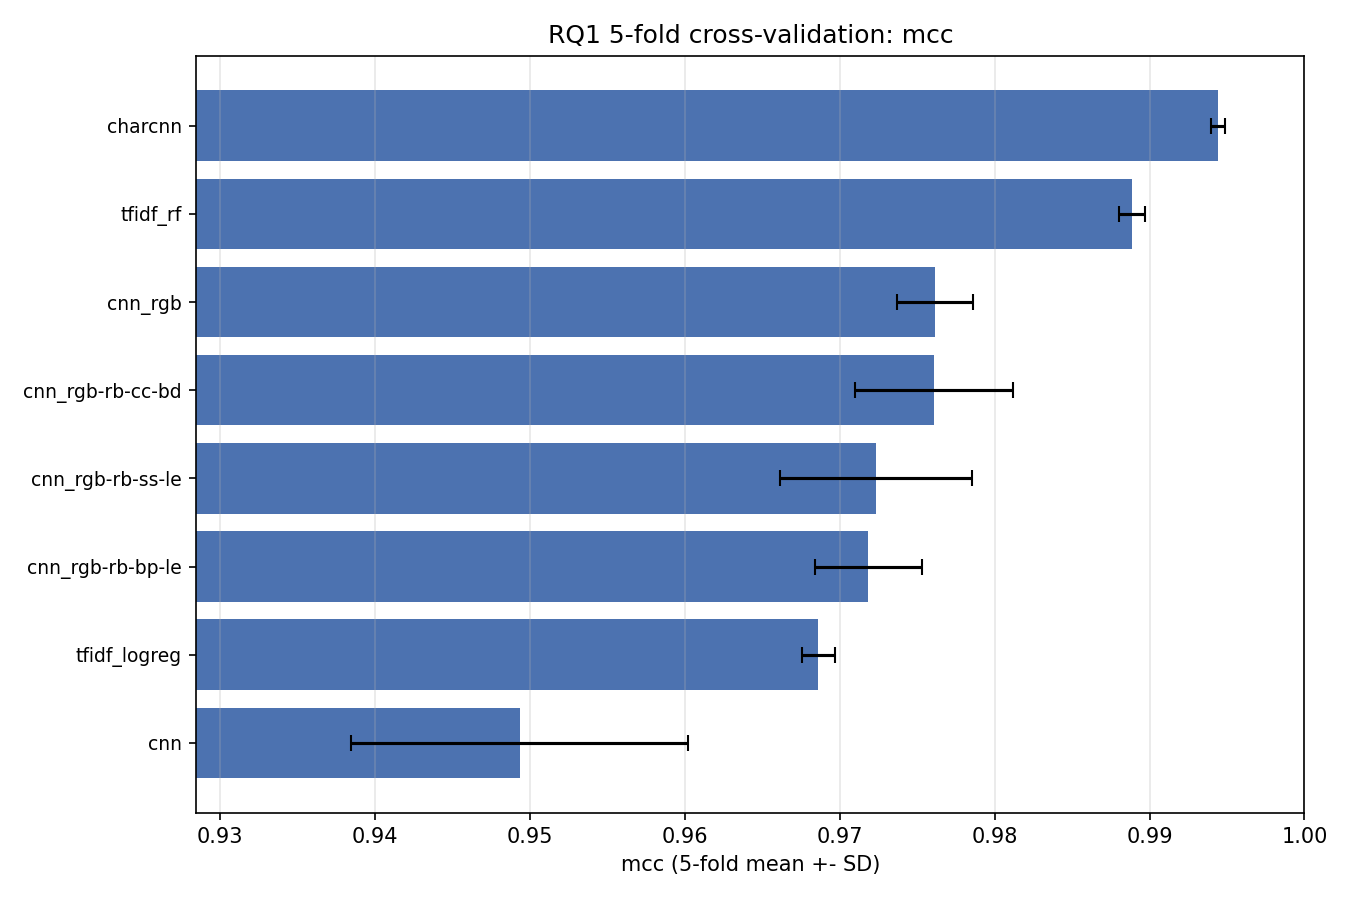
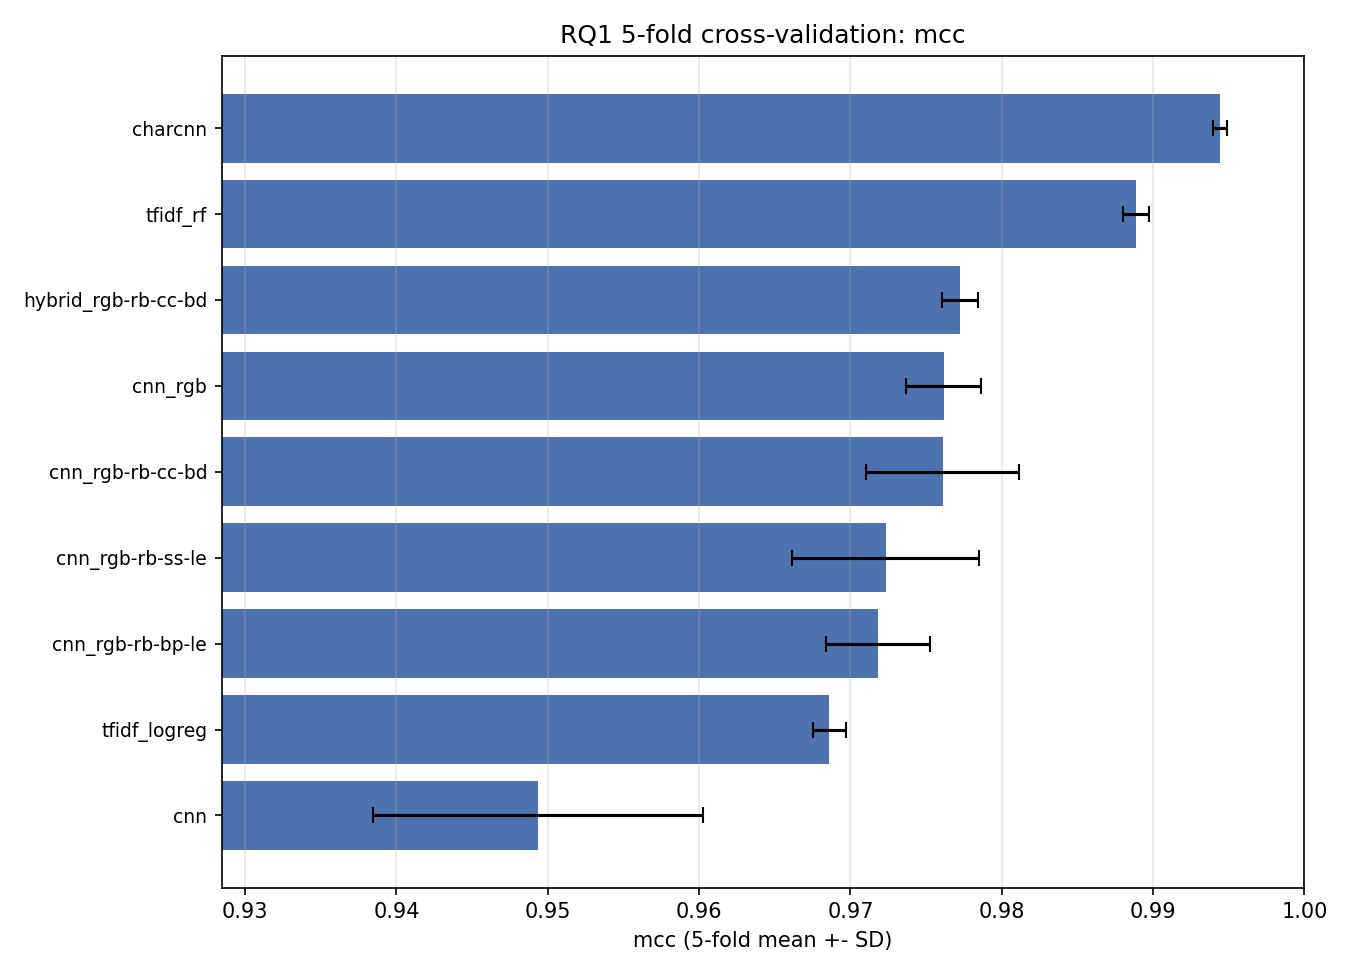
feat(Phase 9): ViT arm 실측 완료 — hybrid vs CNN 유의차 없음(CNN 유지), lr 미조정 함정 규명
■ 실측 (총 12런 + 5-fold CV 1종, RTX 4080 SUPER 약 2시간)
- 1순위 CNN↔ViT 교체 비교 4종(vit/hybrid × gray/rgb)
- 2순위 패치 기하 3종 × lr 스윕(1e-3 / 3e-4 / 1e-4)
- hybrid rgb 5-fold CV (cnn rgb CV 는 기존 산출물 재사용, 라벨지문 일치 확인)

■ 핵심 결론
1) hybrid vs 제안 CNN: paired t-test 평균차 +0.12pp, p(adj)=1.0000 → 유의차 없음.
   단일 split 의 +0.27pp 는 노이즈였다. 동률에 파라미터 6.1배·처리량 1/3.5 를 지불할
   이유가 없으므로 제안 CNN 유지. 교수 요구 (b) 관점에서 "시도했으나 채택 안 함"이 결론.
2) 기본 lr=1e-3 은 CNN 기준값이라 단일 ViT 가 발산한다. lr 만 낮추자 MCC 가 최대 +23.9pp
   이동(1x48: 0.6768→0.9158). "같은 학습 루프 = 공정"은 성립하지 않는다.
   → lr 미조정 상태로 측정한 패치 기하 결과 3종은 무효(음성 대조군이 1위로 나왔었음).
3) 패치 기하: 토큰 수를 통제한 1x48 vs 48x1 에서 +1.5~1.8pp(두 lr 일관) → §3 가설 지지 방향.
   단 단일 split 이라 CV 전까지 주장 금지. §3 세부 예측 "V-col 이 최악"은 빗나감(8x8 과 동률).
4) gray→RGB 상승폭이 귀납편향과 반비례(vit +13.4pp / hybrid +2.0pp / cnn +1.7pp).
   RGB 채널 인프라는 구현 편의를 넘어 ViT arm 의 핵심 변수였다.
5) §6-2 처리량 우려는 과대평가 — 실측 2.2배 저하에 그쳤고 charcnn 대비 13.6배 우위 유지.

■ 코드 수정
- train.py / cross_validate.py: 산출물 tag 에 `_lr` 접미사 추가(두 곳 동시 갱신).
  lr 이 tag 에 없어 스윕 6런이 서로 덮어쓸 뻔했다(커밋 5eede2f 사고와 동형).
  기본값 1e-3 이면 접미사 생략 → 기존 산출물 15종과 파일명 호환 유지.
- DEFAULT_LR 상수 승격: 두 파일이 같은 기준으로 "기본값 여부"를 판정해야 규칙이 어긋나지 않음.

■ 철회/정정
- "수렴 속도(best epoch)가 바이트 연속성 서열과 일치한다"는 관찰은 lr=1e-4 에서 재현되지
  않아 폐기(3e-4: 12<23<30, 1e-4: 16<20<25 로 8x8·48x1 역전).

■ 실행 메모
- 백그라운드 작업이 "killed" 로 보고돼도 파이썬 자식 프로세스는 생존할 수 있다. 이를 오판해
  2차 CV 를 띄워 GPU 동시 실행이 발생(순차 실행 규칙 위반). fold 5 의 epoch 시간이 22s→41.5s 로
  느려진 흔적이 남아 있으나 시드 고정이라 결과값은 유효. 재실행 전 프로세스 생존 확인 필요.

diff --git a/src/models/train.py b/src/models/train.py
@@ -51,6 +51,10 @@ CKPT_DIR = PROJECT_ROOT / "experiments" / "checkpoints"
 # 이미지를 쓰는 모델과 바이트 시퀀스를 쓰는 모델을 구분한다.
 # vit/hybrid 는 제안 CNN 과 **완전히 같은 이미지 입력**을 받는 비교 arm 이다(vit.py 참조).
 IMAGE_MODELS = {"cnn", "vit", "hybrid"}
+
+# 기본 학습률. 산출물 tag 에서 "기본값이면 접미사 생략" 판정에 쓰므로 상수로 둔다
+# (cross_validate.py 와 동일한 값이어야 파일명 규칙이 어긋나지 않는다).
+DEFAULT_LR = 1e-3
 TEXT_MODELS = {"charcnn", "bilstm"}
 
 
@@ -256,7 +260,7 @@ def main() -> None:
                         help="바이트 시퀀스 길이(텍스트 모델 전용). 기본=이미지 용량(48x48)과 동일")
     parser.add_argument("--epochs", type=int, default=30)
     parser.add_argument("--batch-size", type=int, default=128)
-    parser.add_argument("--lr", type=float, default=1e-3)
+    parser.add_argument("--lr", type=float, default=DEFAULT_LR)
     parser.add_argument("--patience", type=int, default=5, help="조기 종료 인내 에폭")
     parser.add_argument("--seed", type=int, default=42)
     parser.add_argument("--limit", type=int, default=None, help="학습 샘플 수 제한(스모크용)")
@@ -329,7 +333,10 @@ def main() -> None:
         # ⚠ vit 은 패치 기하가 바뀌면 완전히 다른 실험이다. tag 에 안 넣으면 8x8 결과를
         #    1x48 결과가 덮어쓴다(RGB ablation 에서 실제로 겪은 사고 — 커밋 5eede2f).
         patch_tag = f"_p{args.patch}" if args.model == "vit" else ""
-        tag = (f"{args.track}_{args.model}_{args.text}{ch_tag}{patch_tag}"
+        # ⚠ lr 도 실험을 가르는 하이퍼파라미터다(ViT 는 CNN 용 기본 lr=1e-3 에서 발산 —
+        #    docs/08 §9). 기본값일 때는 접미사를 생략해 기존 산출물과 파일명 호환을 유지한다.
+        lr_tag = "" if args.lr == DEFAULT_LR else f"_lr{args.lr:g}"
+        tag = (f"{args.track}_{args.model}_{args.text}{ch_tag}{patch_tag}{lr_tag}"
                + ("_bal" if args.balance else ""))
         M.save_report(result, RESULTS_DIR / f"{tag}.json")
         # 샘플 단위 예측 저장(모델 간 '탐지 불일치' 분석용 — detection_analysis.py 가 소비)

diff --git a/src/eval/cross_validate.py b/src/eval/cross_validate.py
@@ -360,7 +360,9 @@ def main() -> None:
         ch_tag = data_image._channel_suffix(args.channels, encoders)
     # train.py 와 동일한 태그 규칙(패치 기하가 다르면 다른 실험 → 파일이 겹치면 안 됨).
     patch_tag = f"_p{args.patch}" if args.model == "vit" else ""
-    tag = f"{args.track}_{args.model}_{args.text}{ch_tag}{patch_tag}"
+    # lr 접미사도 train.py 와 동일 규칙(기본값이면 생략) — ViT 는 lr 이 결과를 크게 가른다.
+    lr_tag = "" if args.lr == T.DEFAULT_LR else f"_lr{args.lr:g}"
+    tag = f"{args.track}_{args.model}_{args.text}{ch_tag}{patch_tag}{lr_tag}"
 
     payload = {
         "model": args.model,

diff --git a/docs/08_vit_design.md b/docs/08_vit_design.md
@@ -174,7 +174,109 @@ python src/eval/cross_validate.py --model hybrid --channels rgb --rgb-encoders r
 - [x] A(단일 ViT)·B(하이브리드) 구현 — `src/models/vit.py`, train.py `IMAGE_MODELS` 에 등록.
       gray/RGB, 패치 8x8·1x48, 잘못된 패치 에러처리까지 스모크 검증 완료(2026-07-18).
 - [x] C(사전학습 전이) 제외 확정 — 처리량 우위 상실이 이유(§6-2).
-- [ ] **학습 실측 미실시** — RQ1 5-fold CV(9설정)가 GPU 를 점유 중이라 대기. CV 종료 후 착수.
+- [x] **학습 실측 완료(2026-07-19)** — §9 참조. 단일 split 12런 + hybrid RGB 5-fold CV.
 - [ ] RQ3 대비 우선순위 확정 (권고: RQ3 우선, ViT 실측은 그다음)
 - [ ] 하이브리드의 CNN stem 깊이(2블록 vs 3블록) — 12×12 vs 6×6 토큰맵
 - [ ] attention rollout 을 논문 본문에 넣을지 부록으로 뺄지
+- [ ] **§3 패치 기하 CV 미실시** — 단일 split 근거만 있음(§9.3). 논문 주장 전 CV 필요.
+
+---
+
+## 9. 실측 결과 (2026-07-19)
+
+환경: RTX 4080 SUPER, seed=42, epochs=30, batch=128, 조기종료 patience=5.
+RGB 조합은 `raw_byte,char_class,byte_delta`(`_rgb-rb-cc-bd`) 고정 — §7 지정값.
+CV 결과의 상위 조합 2종(`_rgb` 0.9762 / `_rgb-rb-cc-bd` 0.9761)이 std 보다 작은 차이로 동률이라
+성능으로 고를 수 없었고, 문서·산출물 일관성을 위해 §7 지정값을 따랐다.
+
+### 9.1 ⚠ 학습률 — 이 arm 에서 가장 중요한 발견
+
+`train.py` 의 기본 `lr=1e-3` 은 **CNN 에 맞춰 검증된 값**이고, 단일 ViT 는 이 값에서 **발산한다.**
+동일 설정에서 lr 만 바꾼 실측(gray, 단일 split):
+
+| patch | lr=1e-3 | lr=3e-4 | lr=1e-4 |
+|---|---|---|---|
+| 1x48 | 0.6768 (ep10) | **0.9158** (ep12) | **0.9179** (ep16) |
+| 8x8 | 0.7705 (ep14) | 0.8984 (ep23) | 0.9035 (ep25) |
+| 48x1 | 0.7985 (ep 4) | 0.8976 (ep30, 미수렴) | 0.9026 (ep20) |
+
+- lr=1e-3 열은 **전부 무효**다. val Macro-F1 이 에폭 간 0.18 폭락하는 등 수렴하지 않았다.
+  (예: 1x48 은 lr 만 낮추자 MCC 가 **+23.9pp** 움직였다.)
+- **"같은 학습 루프를 썼으니 공정하다"는 논리는 한쪽으로만 기운다** — 기본 lr 이 CNN 기준이므로
+  최적값이 다른 아키텍처가 자동으로 불리해진다. ViT 비교는 **반드시 lr 을 맞춰서** 해야 한다.
+- 산출물 tag 에 lr 이 없어 스윕 결과가 서로 덮어쓸 뻔했다 → `train.py`/`cross_validate.py`
+  **두 곳**에 `_lr` 접미사 추가(기본값이면 생략해 기존 파일명과 호환). 커밋 5eede2f 사고와 동형.
+
+### 9.2 1순위 — CNN ↔ ViT 교체 비교 (단일 split, lr=1e-3)
+
+| 설정 | MCC | PR-AUC | 파라미터 | 처리량 |
+|---|---|---|---|---|
+| charcnn (텍스트 베이스라인) | 0.9957 | 0.9995 | 141,252 | 6,010/s |
+| hybrid rgb | 0.9802 | 0.9970 | 576,932 | 23,504/s |
+| **cnn rgb (제안)** | 0.9775 | 0.9963 | **93,988** | **81,964/s** |
+| cnn gray | 0.9609 | 0.9914 | 93,412 | 92,466/s |
+| hybrid gray | 0.9599 | 0.9915 | 576,356 | 25,203/s |
+| vit rgb 8x8 | 0.9041 | 0.9692 | 2,714,692 | 39,492/s |
+| vit gray 8x8 | 0.7705 | 0.8928 | 2,690,116 | 42,443/s |
+
+⚠ `vit` 행은 §9.1 에 따라 **과소평가**다(lr 미조정). gray 는 lr 조정 시 0.90 까지 올라간다.
+`hybrid`/`cnn` 은 lr=1e-3 에서 안정 수렴했으므로 그대로 유효하다.
+
+**gray→RGB 상승폭이 귀납편향과 반비례한다**: vit +13.4pp / hybrid +2.0pp / cnn +1.7pp.
+`char_class`·`byte_delta` 는 CNN 이 conv 로 이미 얻는 정보라 한계효용이 작고,
+지역성 편향이 없는 ViT 는 크게 덕을 본다. → RGB 인프라는 구현 편의(§5-1)를 넘어 **ViT arm 의 핵심 변수**.
+
+**conv stem 이 용량보다 중요하다**: hybrid(0.58M, stem 있음) 0.9599 ≫ vit(2.69M, stem 없음) 0.7705.
+파라미터가 4.7배 적은 쪽이 이긴다 → §6-1(데이터 규모 부족) 을 직접 뒷받침.
+
+### 9.3 2순위 — 패치 기하 (단일 split, ⚠ CV 미실시)
+
+토큰 수를 통제한 **1x48 vs 48x1**(둘 다 48토큰, 연속성만 다름)이 §3 의 인과 비교다:
+
+| lr | 1x48 | 48x1 | 차이 |
+|---|---|---|---|
+| 3e-4 | 0.9158 | 0.8976 | **+1.82pp** |
+| 1e-4 | 0.9179 | 0.9026 | **+1.53pp** |
+
+수렴한 두 lr 에서 방향·크기가 일관 → **§3 가설(바이트 연속성이 중요) 을 지지하는 방향.**
+1x48 은 8x8 도 두 lr 모두에서 앞선다(+1.75pp / +1.44pp).
+
+**단, 확정 아님**:
+- 단일 split 이다. CNN RGB 의 CV std 가 0.51pp 였으므로 1.5pp 는 유의할 여지가 크지만,
+  CLAUDE.md 규칙상 **CV 없이 주장 금지**.
+- §3 의 세부 예측 **"V-col 이 가장 나쁠 것"은 빗나갔다** — 48x1(0.9026) ≈ 8x8(0.9035) 로 동률이다.
+  세로 스트라이드가 정사각 패치보다 특별히 나쁘지는 않았다. 주 가설과 무관한 곁가지 예측이나 기록해 둔다.
+- **철회된 주장**: 한때 "수렴 속도(best epoch)가 연속성 서열과 일치한다"고 봤으나,
+  lr=3e-4 에서는 12<23<30 이지만 lr=1e-4 에서는 16<20<25 로 8x8·48x1 이 뒤바뀐다. **재현되지 않아 폐기.**
+
+### 9.4 hybrid vs 제안 CNN — 5-fold CV paired t-test ⭐
+
+| 설정 | MCC 평균 | std | fold 별 |
+|---|---|---|---|
+| hybrid rgb | 0.9772 | 0.0012 | 0.9768 0.9792 0.9773 0.9765 0.9764 |
+| cnn rgb (제안) | 0.9761 | 0.0051 | 0.9786 0.9800 0.9703 0.9807 0.9709 |
+
+**paired t-test: 평균차 +0.12pp, p(raw)=0.6234, p(adj)=1.0000 → 유의차 없음.**
+
+→ 단일 split 의 `hybrid 0.9802 > cnn 0.9775 (+0.27pp)` 는 **노이즈였다.**
+→ **결론: 제안 CNN 유지.** 동률을 내는 데 파라미터 6.1배·처리량 1/3.5 를 지불할 이유가 없다(§4).
+   교수 요구 (b) 관점에서 **"시도했으나 채택하지 않음"이 정직한 보고**다.
+
+곁가지: hybrid 의 fold 간 변동폭이 CNN 보다 작다(std 0.0012 vs 0.0051). 성능은 같아도 안정적이나,
+6배 비용을 정당화하지 못한다.
+
+### 9.5 §6 리스크 사후 점검
+
+| §6 리스크 | 실측 결과 |
+|---|---|
+| 1. 데이터 부족으로 단일 ViT 열세 | **적중.** lr 조정 후에도 0.90 vs CNN 0.9609 |
+| 2. 처리량 5~10배 붕괴 | **과대평가였다.** 실측 2.2배(92k→42k/s), charcnn 대비 13.6배 우위 유지 |
+| 3. 범위 확대(RQ3 밀어내기) | 유효 — 총 GPU 약 2시간 소요. RQ3 우선 권고 유지 |
+
+### 9.6 실행 메모 (재현 시 주의)
+
+- **백그라운드 작업이 "killed" 로 보고돼도 파이썬 자식 프로세스는 살아 있을 수 있다.**
+  실제로 셸 래퍼만 종료되고 CV 프로세스가 계속 돌았는데, 죽은 줄 알고 2차 CV 를 띄워
+  **GPU 에서 학습 2개가 동시 실행**됐다(CLAUDE.md 순차 실행 규칙 위반).
+  fold 5 의 epoch 5~6 이 41.5s/36.7s 로 느려진 흔적이 로그에 남아 있다(평시 ~22s).
+  시드 고정이라 결과값 자체는 유효하나, **재실행 전 `Get-CimInstance Win32_Process` 로 생존 확인 필수.**
